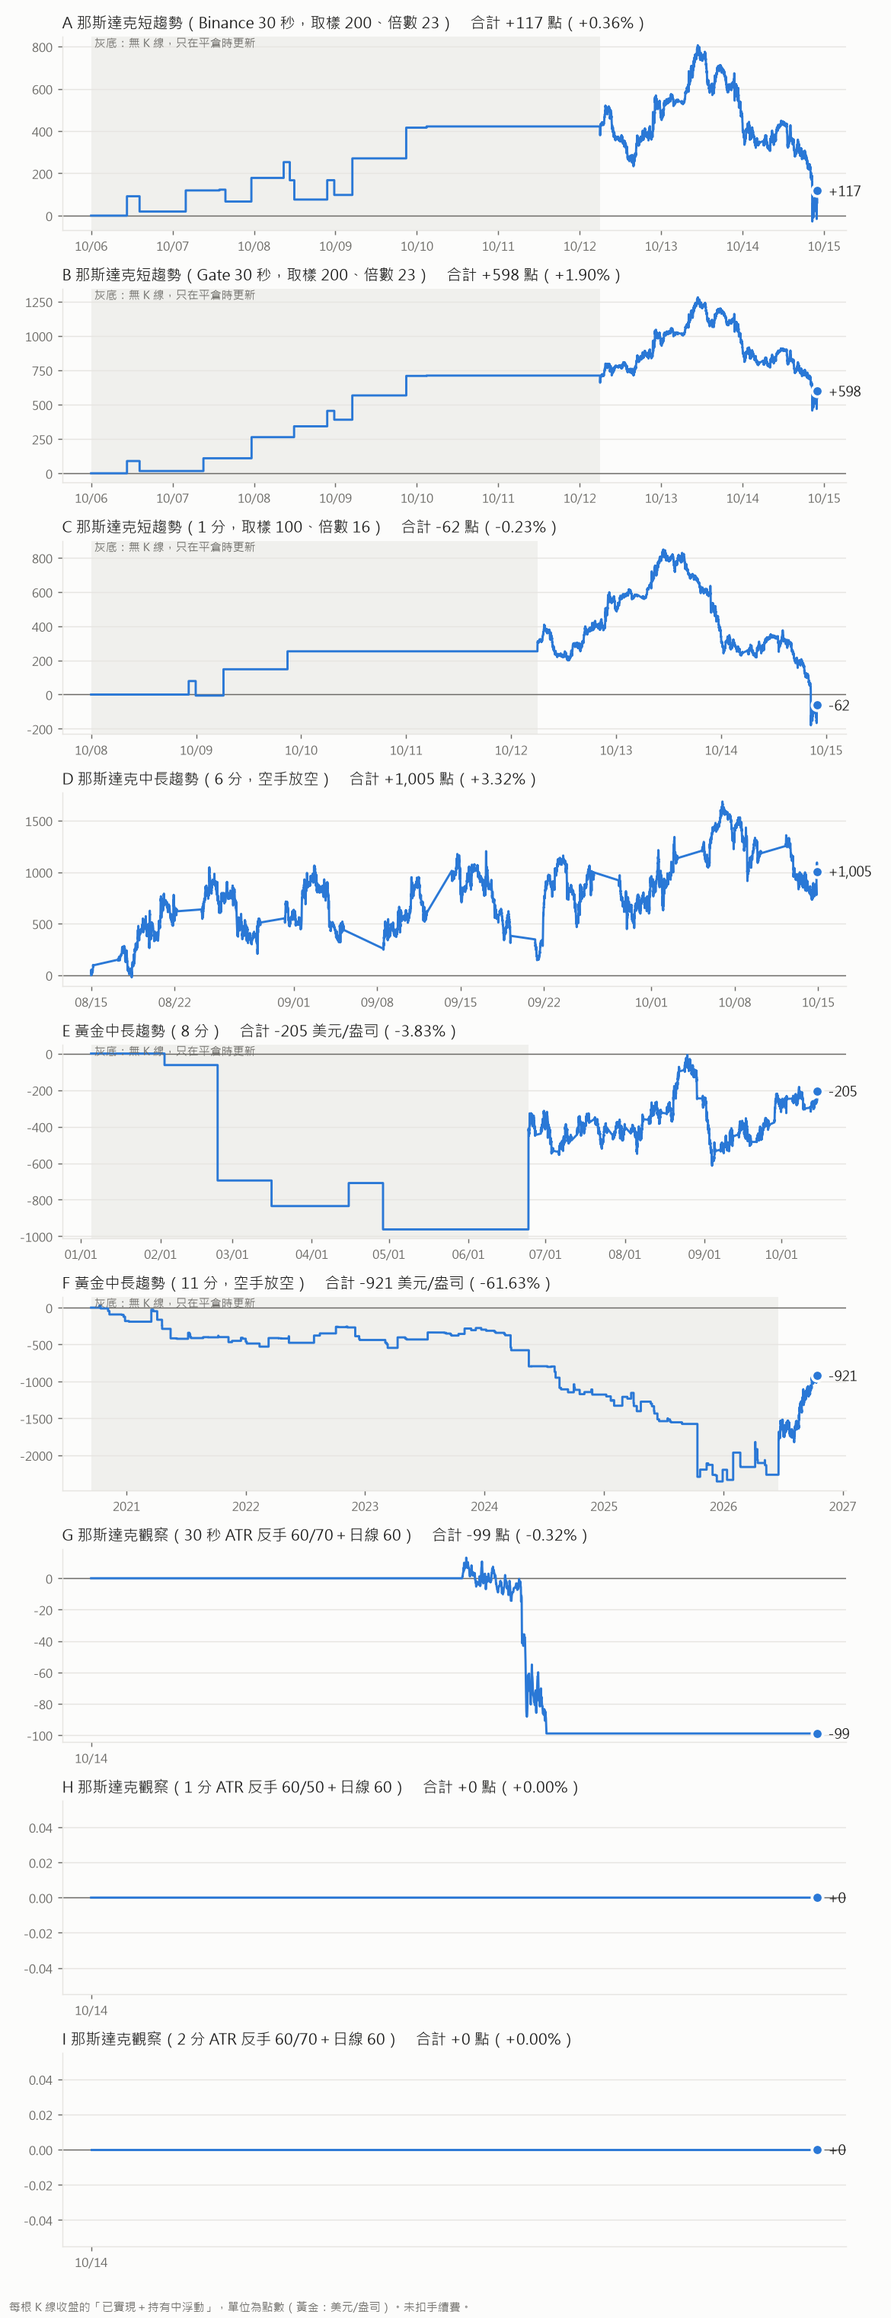
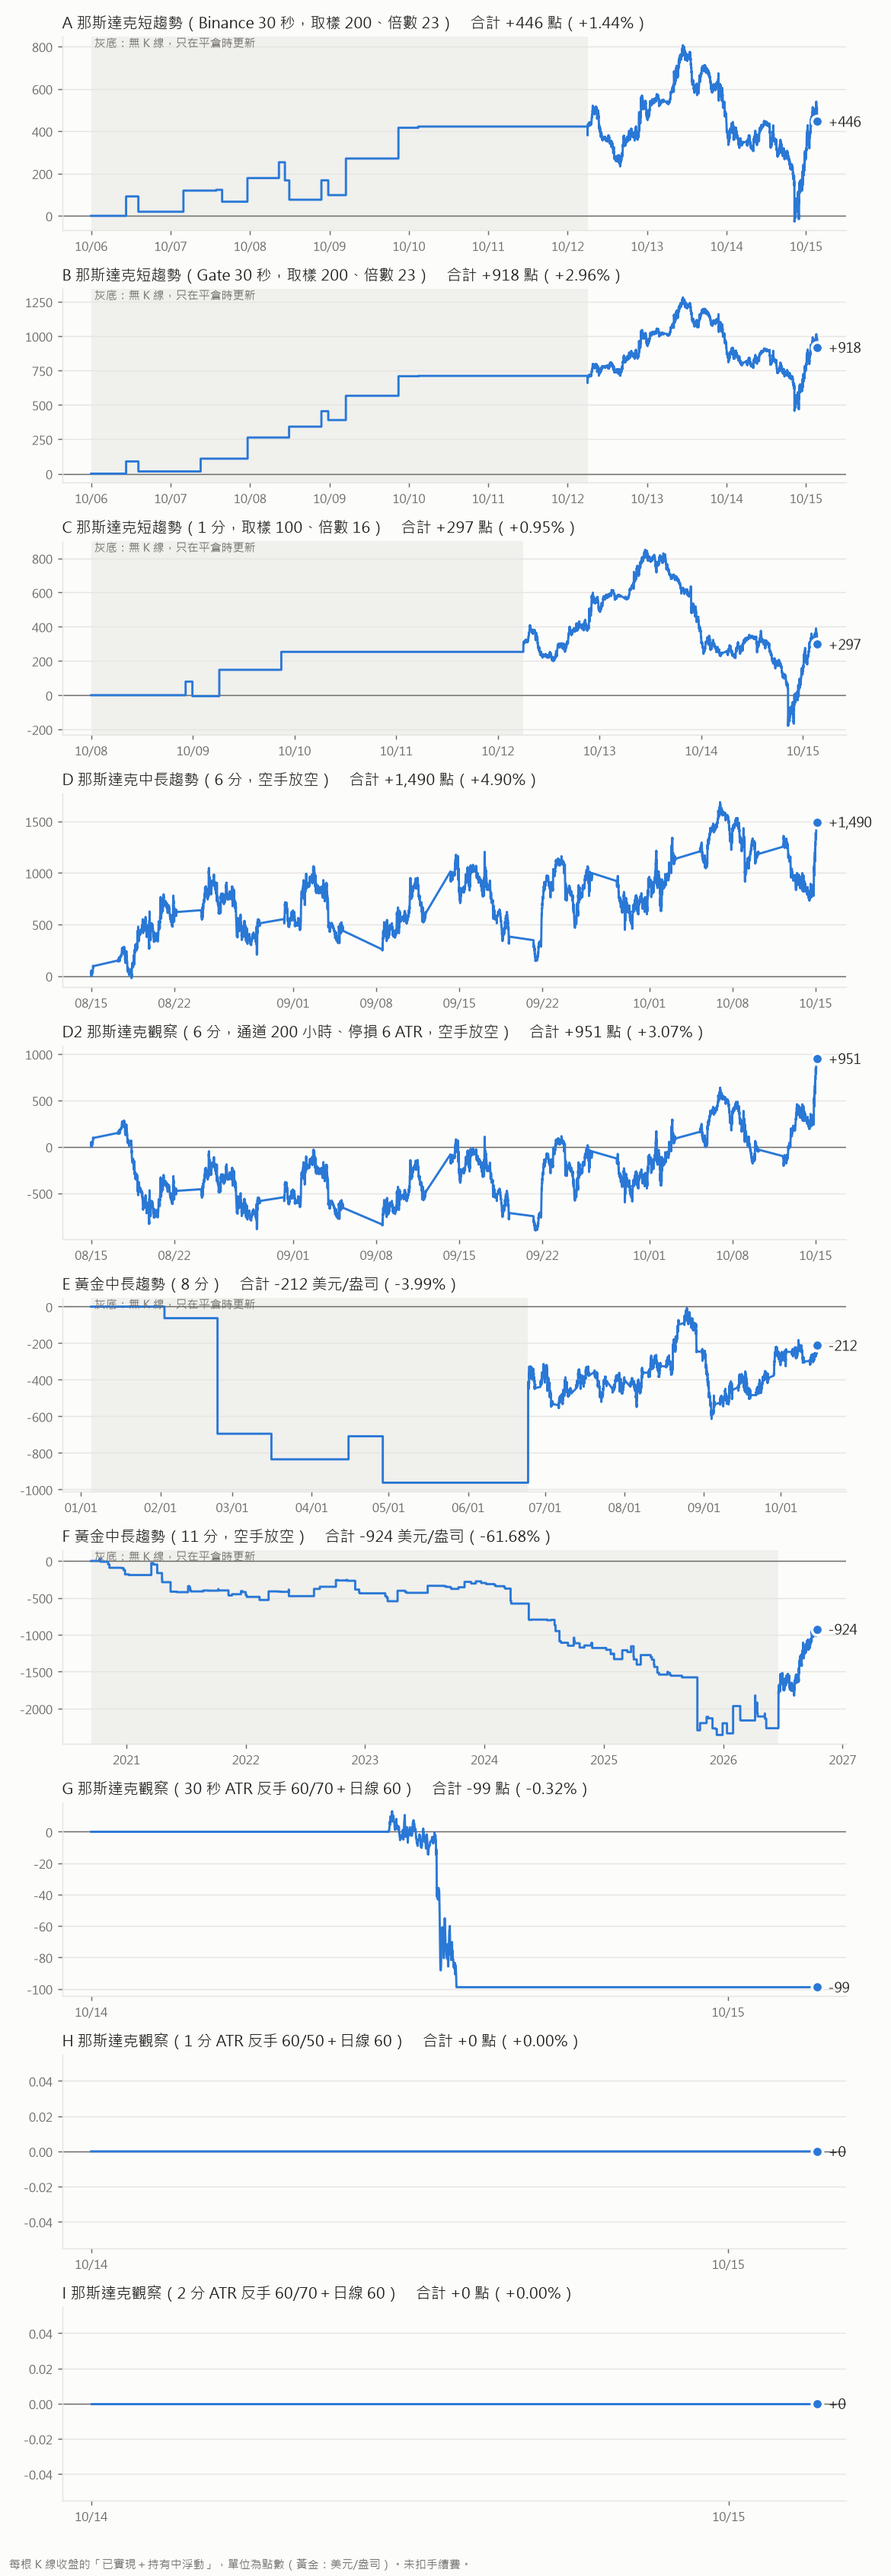
v1.9.1：中長趨勢頁新增 D2 格（D 正下方）＋實際紀錄補 D2
D2＝同 D 的資料（NQ 單一月份合約 6 分）與通道算法，參數改成回看 200 小時、停損 6 ATR、空手改放空（不擋）。
依據：TradingView NQ1! 6 分 2008-10～2026-10 掃 162 組，200/6 多空都做 +1,064 點，2022 空頭年 +3,587；
使用者認為空頭時代要來，並行觀察。
紀錄內部代號 C2，起算 8/15 比照 D（10/15 以前為回算），交易明細按鈕排在 D 後面。
最近一次 10/09 00:48 開空 @31,025，與 TradingView、儀表板一致。

diff --git a/index.html b/index.html
@@ -3,7 +3,7 @@
 <head>
 <meta charset="utf-8">
 <meta name="viewport" content="width=device-width,initial-scale=1,viewport-fit=cover">
-<title>指數趨勢儀表板 v1.9.0</title>
+<title>指數趨勢儀表板 v1.9.1</title>
 <meta name="description" content="那斯達克 30 秒 Range Filter（Binance 與 Gate）、那斯達克 6 分、黃金 8 分與黃金 11 分 Donchian 的即時趨勢訊號">
 <meta name="theme-color" content="#0b0e14">
 <meta name="apple-mobile-web-app-capable" content="yes">
@@ -143,7 +143,7 @@ canvas{display:block;width:100%;height:100%;touch-action:pan-y;cursor:crosshair}
 
 <script>
 "use strict";
-const VERSION = "v1.9.0";
+const VERSION = "v1.9.1";
 const $ = id => document.getElementById(id);
 const FAPI = "https://fapi.binance.com/fapi/v1";
 const sleep = ms => new Promise(r => setTimeout(r, ms));
@@ -463,6 +463,12 @@ const PANELS = [
   {k:"nq6", pg:"long", title:"那斯達克", tf:"中長趨勢・D", sym:"NQ=F", src:"yahoo", nq:false, kind:"don", tfMin:6, span:1e9, flatCol:"#4cff00", flatShort:true,
    sub:"NQ 期貨單一月份合約（同實際紀錄；Yahoo 延遲約 10 分鐘）・Donchian 回看 350 小時（3,500 根）・停損 8 ATR・空手改放空",
    P:{lookH:350, mode:"long", stopAtr:8, atrLen:14, tfMin:6}},
+  /* D2（使用者 2026-10-15 要求，放在 D 正下方）：同 D 的資料與算法，只換參數 200 小時／停損 6 ATR、空手改放空（不擋）。
+     TradingView NQ1! 6 分 2008-10～2026-10 掃 162 組：200/6 多空都做 +1,064 點（空單 −11,996，2022 空頭年 +3,587），
+     只做多 200/6 +13,060、抱著約 +25,700。使用者認為空頭時代要來，並行觀察。 */
+  {k:"nq6b", pg:"long", title:"那斯達克", tf:"中長趨勢・D2", sym:"NQ=F", src:"yahoo", nq:false, kind:"don", tfMin:6, span:1e9, flatCol:"#4cff00", flatShort:true,
+   sub:"NQ 期貨單一月份合約 6 分（同 D）・Donchian 回看 200 小時（2,000 根）・停損 6 ATR・空手改放空（不擋）",
+   P:{lookH:200, mode:"long", stopAtr:6, atrLen:14, tfMin:6}},
   {k:"gold8", pg:"long", title:"黃金", tf:"中長趨勢・E", sym:"XAUUSDT", nq:false, kind:"don", tfMin:8, span:1e9, flatCol:"#ff3b3b",
    sub:"Donchian 回看 350 小時（2,625 根）・多空反轉・永遠在場",
    P:{lookH:350, mode:"both", stopAtr:8, atrLen:14, tfMin:8}},
@@ -950,6 +956,7 @@ const TRADE_K = [
   {k:"G", pk:"gate",   name:"B",    unit:"點"},
   {k:"B", pk:"hl",     name:"C",    unit:"點"},
   {k:"C", pk:"nq6",    name:"D",    unit:"點"},
+  {k:"C2", pk:"nq6b",  name:"D2",   unit:"點"},   // 2026-10-15 放在 D 正下方，同 D 資料、200/6 多空都做
   {k:"D", pk:"gold8",  name:"E 黃金", unit:"美元", d:2},
   {k:"E", pk:"gold11", name:"F 黃金", unit:"美元", d:2},
   {k:"R30", pk:"atr30", name:"G",    unit:"點"},   // v1.9.0 觀察頁，紀錄 2026-10-14 起算

diff --git a/實際紀錄/更新紀錄.py b/實際紀錄/更新紀錄.py
@@ -44,14 +44,17 @@ def ms(y, m, d, h=0):  # 台北時間 → 毫秒
 # E（2026-10-12 加入）＝黃金上方策略，起算日比照 C、D。
 # G（2026-10-12 加入，取代 A-2）＝Gate 版，起算日與 A-1 同為 10/6，方便並排比較。A2 舊列保留但不再更新、不再印績效。
 START = {"A": ms(2026, 10, 6), "A2": ms(2026, 10, 6), "G": ms(2026, 10, 6), "B": ms(2026, 10, 8), "C": ms(2026, 8, 15), "D": ms(2026, 1, 5), "E": ms(2020, 9, 15),
-         "R30": ms(2026, 10, 14), "R1": ms(2026, 10, 14), "R2": ms(2026, 10, 14)}
+         "R30": ms(2026, 10, 14), "R1": ms(2026, 10, 14), "R2": ms(2026, 10, 14), "C2": ms(2026, 8, 15)}
+# C2（畫面 D2，2026-10-15 使用者要求）：同 C 的資料與算法，參數 200 小時／停損 6 ATR、空手改放空。起算比照 C 的 8/15 方便並排；
+# 10/15 以前是回算、不是當時實際記的。換月（12/11）時跟 R2 一樣還不會記換倉。
 # 2026-10-14 使用者要求 D、E 回溯拉到最大：XAUUSDT 2025/12/11 上市、PAXGUSDT 1 分 K 從 2020/08/28，各扣 350 小時暖機。
 # C 維持 8/15：單一月份合約的真 5 分 K 只有 60 天，更早只剩小時 K（9 月約已下市）。
-ORDER = ["A", "G", "B", "C", "D", "E", "R30", "R1", "R2"]
+ORDER = ["A", "G", "B", "C", "C2", "D", "E", "R30", "R1", "R2"]
 # LABEL 是畫面代號（v1.8.4 起照畫面順序叫 A～F），只用在印績效與曲線圖標題；紀錄檔「格子」欄仍是左邊的內部代號。
-LABEL = {"A": "A", "A2": "A-2", "G": "B", "B": "C", "C": "D", "D": "E", "E": "F", "R30": "G", "R1": "H", "R2": "I"}
+LABEL = {"A": "A", "A2": "A-2", "G": "B", "B": "C", "C": "D", "D": "E", "E": "F", "R30": "G", "R1": "H", "R2": "I", "C2": "D2"}
 NAME = {"A": "那斯達克短趨勢（Binance 30 秒，取樣 200、倍數 23）", "A2": "那斯達克短趨勢（取樣 400、倍數 16）", "G": "那斯達克短趨勢（Gate 30 秒，取樣 200、倍數 23）", "B": "那斯達克短趨勢（1 分，取樣 100、倍數 16）", "C": "那斯達克中長趨勢（6 分，空手放空）", "D": "黃金中長趨勢（8 分）", "E": "黃金中長趨勢（11 分，空手放空）",
-        "R30": "那斯達克觀察（30 秒 ATR 反手 60/70＋日線 60）", "R1": "那斯達克觀察（1 分 ATR 反手 60/50＋日線 60）", "R2": "那斯達克觀察（2 分 ATR 反手 60/70＋日線 60）"}
+        "R30": "那斯達克觀察（30 秒 ATR 反手 60/70＋日線 60）", "R1": "那斯達克觀察（1 分 ATR 反手 60/50＋日線 60）", "R2": "那斯達克觀察（2 分 ATR 反手 60/70＋日線 60）",
+        "C2": "那斯達克觀察（6 分，通道 200 小時、停損 6 ATR，空手放空）"}
 GOLD = ("D", "E")   # 單位是美元/盎司
 
 # C 格合約與換月日（CME 慣例：到期前約一週的週四換到下一季）。過了最後一列要往下加
@@ -594,6 +597,8 @@ if __name__ == "__main__":
         added.append(r); LOG_ROWS.append(r)
     added += switch_rule("C", BC, posC, act[1])
     added += update("C", BC, posC, wC, act[1], min_t=real_from); LAST["C"] = (BC[-1][4], BC[-1][0], None)
+    posC2, wC2 = calc_don(BC, 200, 6, "long", 6); posC2 = flat_short(posC2)   # D2：同一份 K 線，只換參數
+    added += update("C2", BC, posC2, wC2, act[1], min_t=real_from); LAST["C2"] = LAST["C"]
 
     print("抓 D：Binance XAUUSDT 1 分 K")
     BD = bars_D(min(last_t("D", START["D"]), NOW) - 70 * 86400000); posD, wD = calc_don(BD, 350, 8, "both", 8)
@@ -614,7 +619,7 @@ if __name__ == "__main__":
     posR2, wR2 = calc_atr_rev(BR2, 60, 70, 60, DAILY)
     added += update("R2", BR2, posR2, wR2, act[1]); LAST["R2"] = (BR2[-1][4], BR2[-1][0], None)
 
-    BARS = {"A": BA, "G": BG, "B": BB, "C": BC, "D": BD, "E": BE, "R30": BA, "R1": BB, "R2": BR2}
+    BARS = {"A": BA, "G": BG, "B": BB, "C": BC, "D": BD, "E": BE, "R30": BA, "R1": BB, "R2": BR2, "C2": BC}
     allrows = [r for r in LOG_ROWS if r not in added] + added
     allrows.sort(key=lambda r: (r["格子"], int(r["時間戳"])))
     save_log(allrows)
